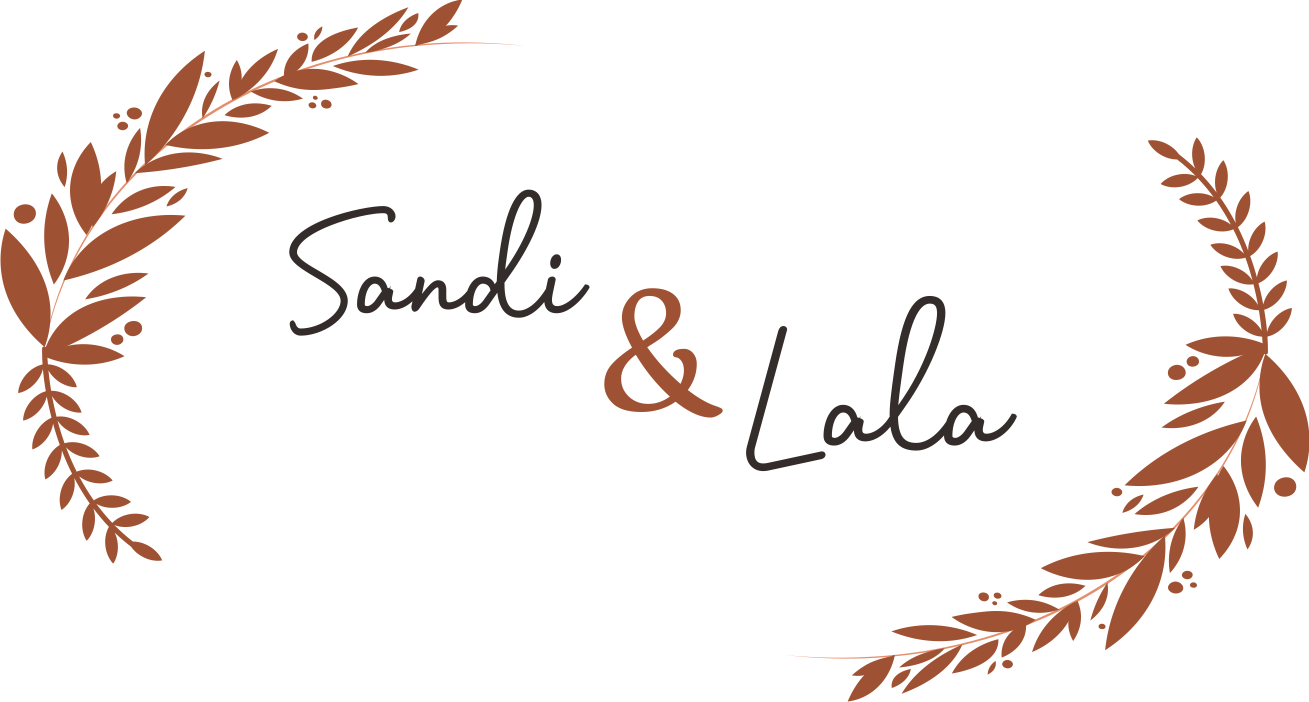
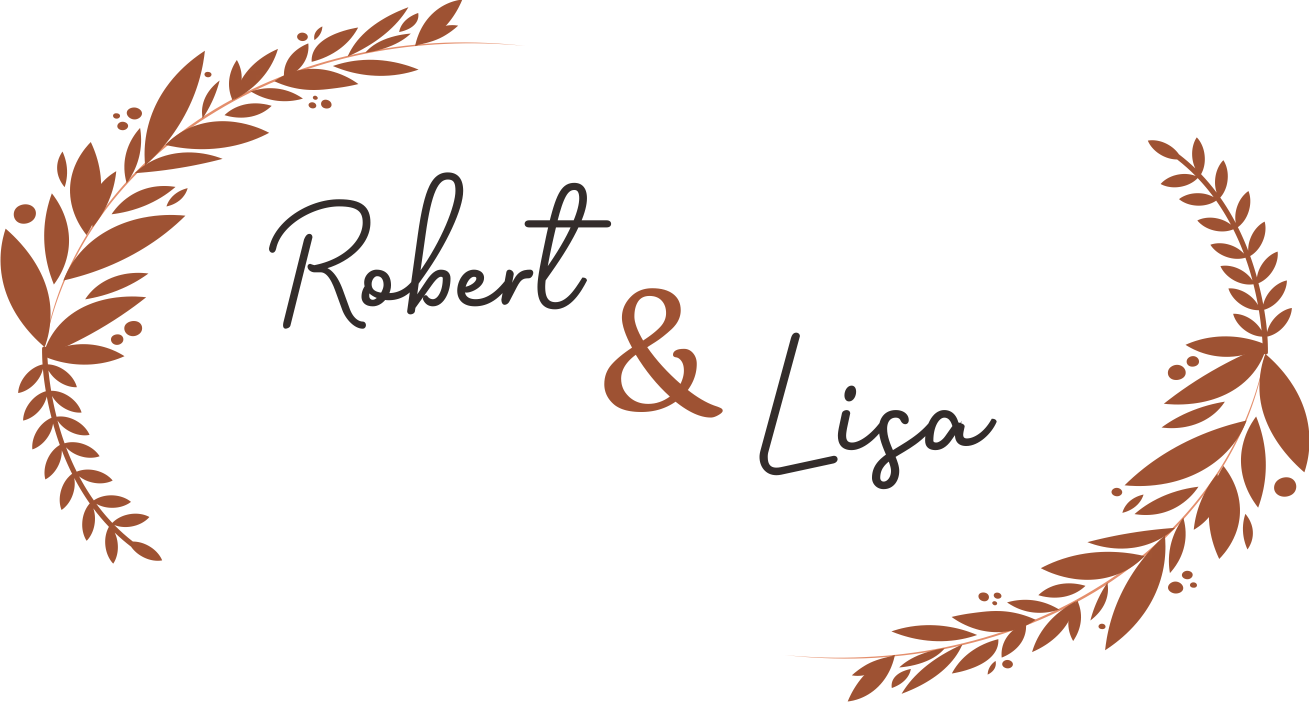
fix overflow on mobile screen & add some image

Changed region(s): [[0.1833, 0.2393, 0.4584, 0.4786], [0.55, 0.4188, 0.7945, 0.688]]

diff --git a/index.html b/index.html
@@ -63,9 +63,9 @@
     <div class="container mt-3" data-aos="fade-up" data-aos-anchor-placement="top-bottom">
         <div class="row text-nama">
             <div class="col col-lg-5 col-12">
-                <img src="https://dummyimage.com/300x300/fff/000.jpg&text=image" alt="Foto Pria" srcset=""
+                <img src="img/foto-pria.png" alt="Foto Pria" srcset=""
                     id="foto-pasangan"><br>
-                Sandi
+                Robert
                 <div id="text-nama-ortu">Putra dari Bpk. Anu & Ibu Anu</div>
             </div>
             <div class="col col-lg-2 col-12 d-flex justify-content-center text-and"
@@ -73,9 +73,9 @@
                 &
             </div>
             <div class="col col-lg-5 col-12 col-lala">
-                <img src="https://dummyimage.com/300x300/fff/000.jpg&text=image" alt="Foto Wanita" srcset=""
+                <img src="img/foto-wanita.png" alt="Foto Wanita" srcset=""
                     id="foto-pasangan"><br>
-                Lala
+                Lisa
                 <div id="text-nama-ortu">Putri dari Bpk. Anu & Ibu Anu</div>
             </div>
         </div>

diff --git a/styles/base.css b/styles/base.css
@@ -1,3 +1,4 @@
+
 body {
     margin: 0;
     padding: 0;
@@ -69,6 +70,7 @@ body::after {
 #foto-pasangan {
     border-radius: 50%;
     margin-bottom: 10px;
+    border: 5px solid sienna;
 }
 
 #text-nama-ortu {
@@ -110,14 +112,14 @@ footer {
 }
 
 .galeri-foto-text {
-    font-size: 20px;
+    font-size: 40px;
     font-family: 'Grandstander', cursive;
     text-align: center;
     color: whitesmoke;
 }
 
 .galeri-video-text {
-    font-size: 20px;
+    font-size: 40px;
     font-family: 'Grandstander', cursive;
     text-align: center;
     color: sienna
@@ -167,6 +169,10 @@ footer {
 
 @media (max-width: 576px) { 
 
+    html, body {
+        overflow-x: hidden;
+    }
+    
     .img-top img {
         width: 50%;
     }
@@ -201,6 +207,11 @@ footer {
     .text-and {
         margin-top: 20px;
         margin-bottom: 20px;
+    }
+
+    .galeri-video-text img {
+        width: 100%;
+        height: auto;
     }
 
     .youtube iframe, .youtube object, .youtube embed { 

diff --git a/script/query_params.js b/script/query_params.js
@@ -8,7 +8,7 @@ window.onload = function () {
         var tujuan;
 
         if (nama === null || alamat === null) {
-            tujuan = "............";
+            tujuan = "Anda (di tempat)";
             // $( "#tujuan-isi" ).hide();
         } else {
             tujuan = nama + " (" + alamat + ")";
